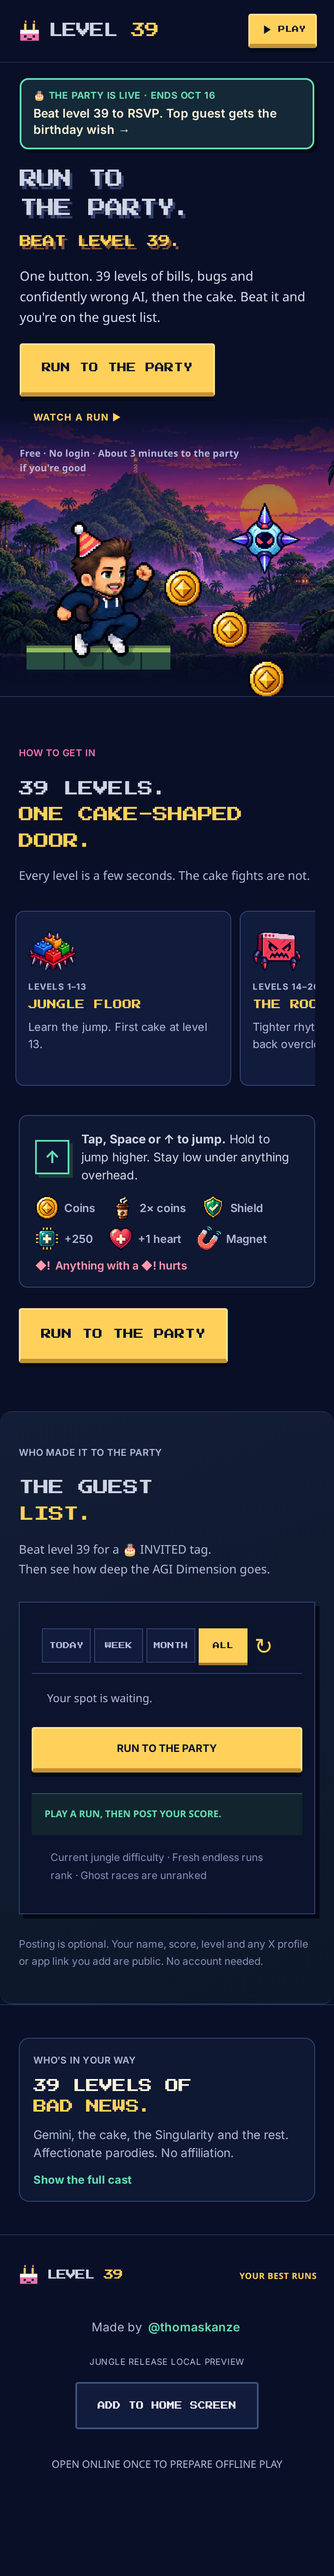
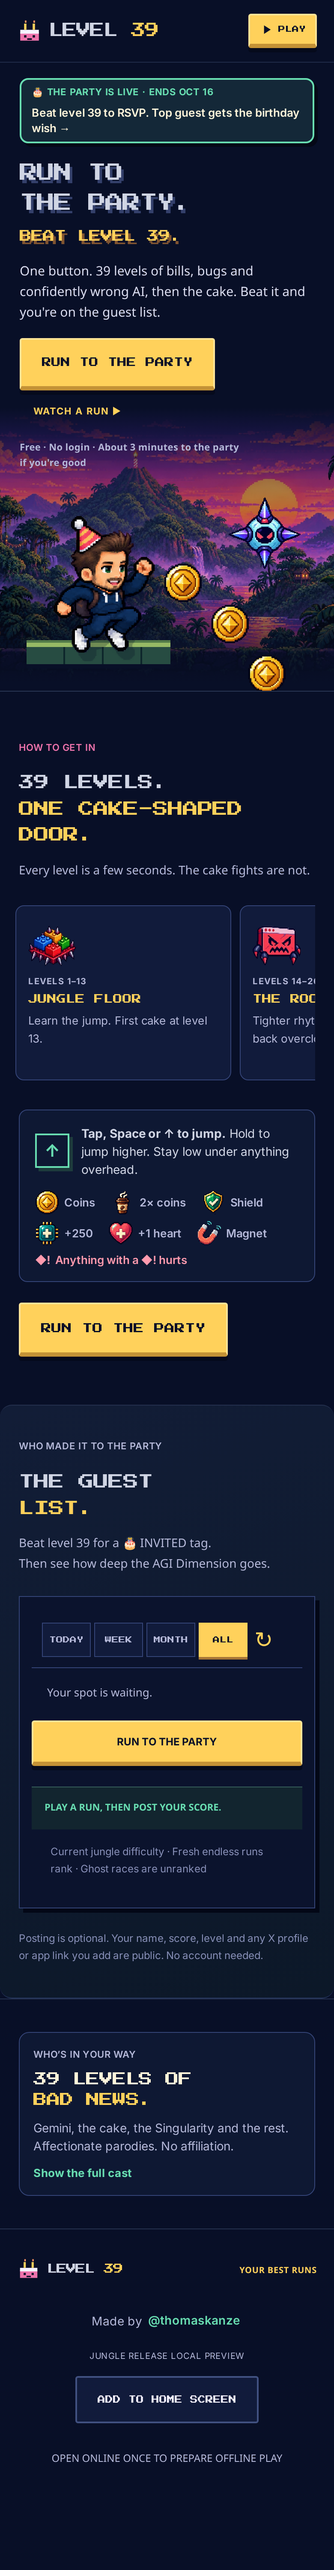
README: current skill and final level39 numbers (#5)

diff --git a/README.md b/README.md
@@ -1,6 +1,6 @@
 # ✂ Martin
 
-Your landing page isn't a novel. Martin finds the one outcome a visitor came for, then edits your site so that shows up first.
+Your landing page isn't a novel. Martin maps the page, then edits the source.
 
 ```bash
 git clone https://github.com/apwn/martin-skill ~/.claude/skills/martin
@@ -18,7 +18,7 @@ This skill turns that advice into an automated coding workflow. A playful homage
 
 ## What it does
 
-Martin inspects the page, names the primary customer outcome, and marks each section KEEP, COMPRESS, MERGE, MOVE or DELETE. Features get clustered under real benefits, not listed as a catalog. Then it edits the source. Pricing, genuine proof, legal copy, accessibility, SEO and working UI stay.
+Structure first. A merge cannot grow the hero (about 0.75 of a 1440x900 desktop screen, one 390x844 mobile screen, with headline, offer and CTA above the fold). Timers and badges attach under the CTA, not as their own row. After edits: screenshot, critique the fold and orphans, fix up to twice. The report includes a per-section height table. Pricing, proof, legal, accessibility and SEO stay.
 
 | Mode | Behavior |
 |---|---|
@@ -29,22 +29,28 @@ Martin inspects the page, names the primary customer outcome, and marks each sec
 | `hero` | Hero clarity and size |
 | `mobile` | Mobile hierarchy and clutter |
 
-Ask in plain language: `Use Martin in brutal mode on my homepage`.
+`Use Martin in brutal mode on my homepage`.
 
 ## Example: [level39.fun](https://level39.fun)
 
-Same offer, four times, then two mobile screens of enemies after you already knew the ask. Collapse the catalog. Keep the route.
-
-Removed the birthday banner that repeated the hero invite. Collapsed the 16-card cast into a closed details section.
+Same offer, four times, then two mobile screens of enemies. Collapse the catalog. Keep the route. Banner gone, cast collapsed, hero a bit smaller than the original.
 
 <table>
   <tr>
-    <td align="center"><img src="assets/level39-before.png" alt="level39.fun mobile before" width="300" /><br>Before</td>
-    <td align="center"><img src="assets/level39-after.png" alt="level39.fun mobile after" width="300" /><br>After</td>
+    <td align="center"><img src="assets/level39-before.png" alt="level39.fun landing before" width="300" /><br>Before</td>
+    <td align="center"><img src="assets/level39-after.png" alt="level39.fun landing after" width="300" /><br>After</td>
   </tr>
 </table>
 
-Sections: 7 → 6. Mobile: 5.31 → 3.56 screens (-33%). Desktop: 3.63 → 2.92 (-20%). Words: 473 → 341, mostly from the collapsed cast. Tests and build passed.
+Landing mobile: 5.31 → 3.55 screens. Desktop: 3.63 → 2.86.
+
+On the birthday page the prize block merged into the hero and the standalone countdown became one line under Play.
+
+<img src="assets/level39-birthday-after.png" alt="level39.fun birthday after" width="300" />
+
+Birthday hero: 1.05 → 0.48 mobile screens. Page: 4.62 → 3.23.
+
+Self-review caught four of its own issues: hero growth from the invite card, padding leaking to mobile, a misaligned countdown, and a headline wrap. Tests and build passed.
 
 MIT. See [LICENSE](LICENSE).
 
